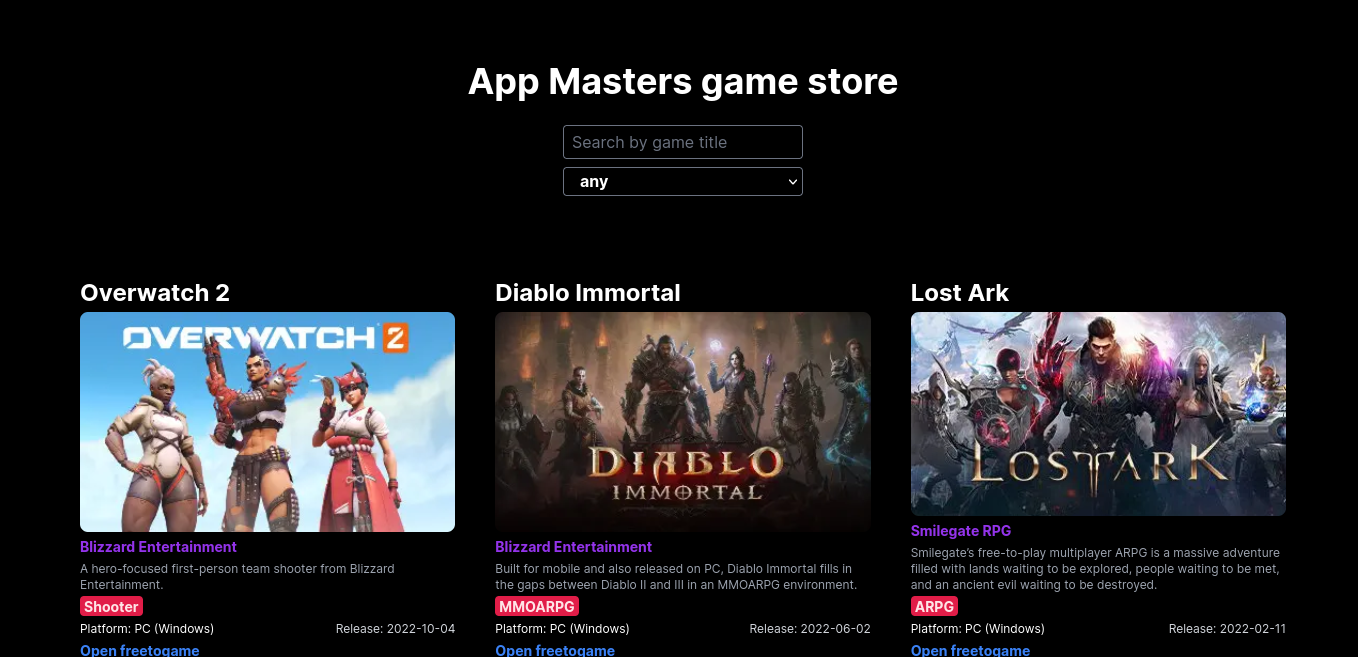
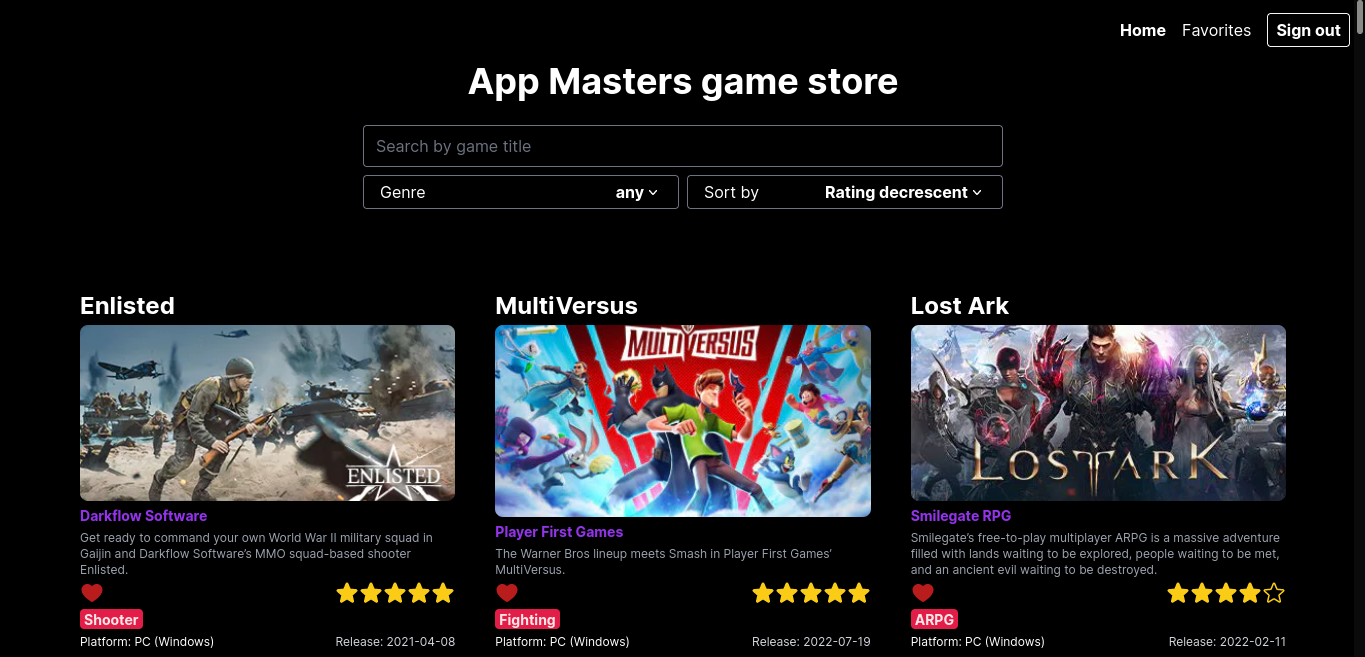
doc: update documentation assets and description

diff --git a/README.md b/README.md
@@ -1,5 +1,5 @@
 ![A picture of a website containing lots of cards showing all kinds of games](./assets/app-masters-game-store1.png)
-![A picture of a website containing lots of cards showing search results to a shooter game with the query 'ap'](./assets/app-masters-game-store2.png)
+![A picture of a website containing lots of cards showing marked as favorite and filtered by the search 'Mul', only showing one result](./assets/app-masters-game-store2.png)
 
 ## Features
 
@@ -12,6 +12,11 @@
 - Filter by genre
 - Search by title
 - 5 Seconds load timeout
+- Authentication with email/password
+- Save favorite games
+- Rate games from 1 to 5 stars
+- View the games without having to be authenticated
+- Sort games by rating
 
 ## References
 
